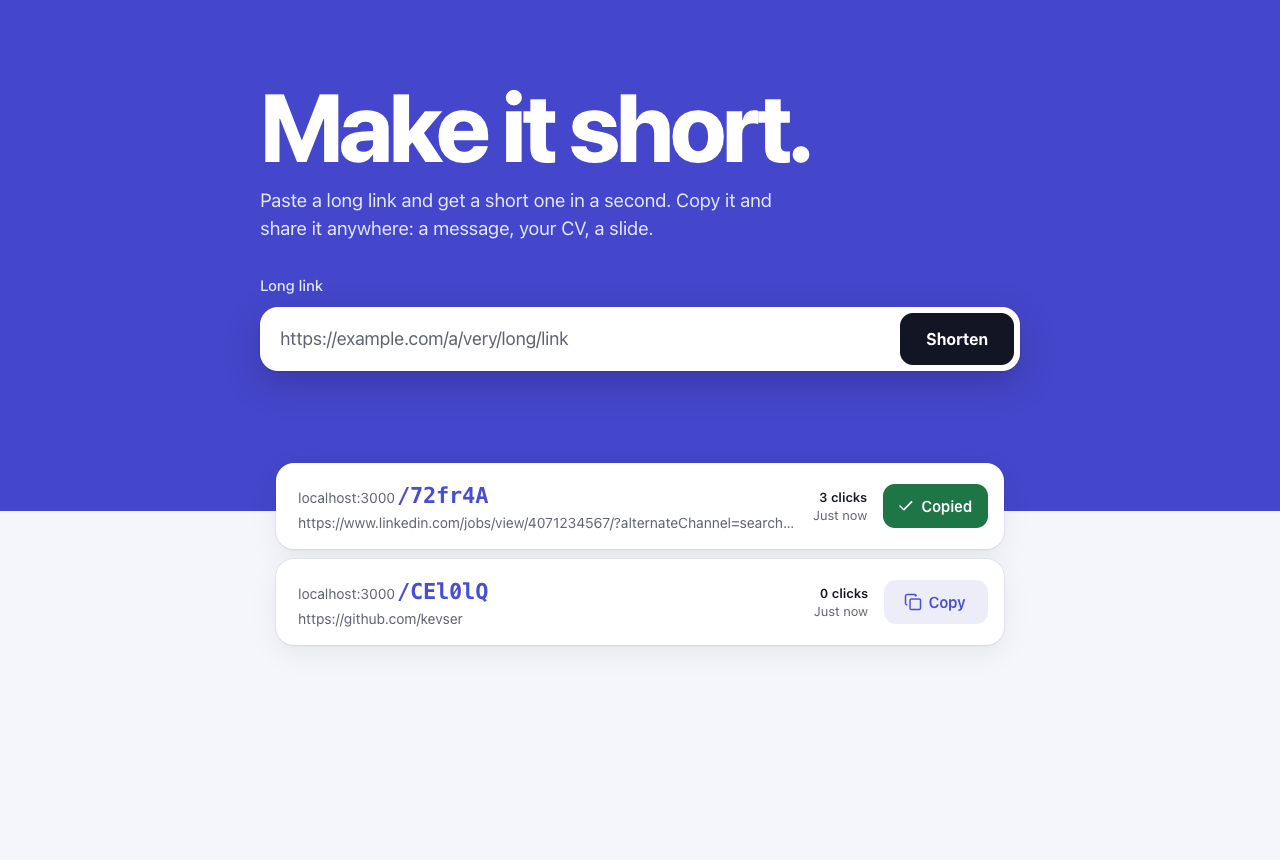
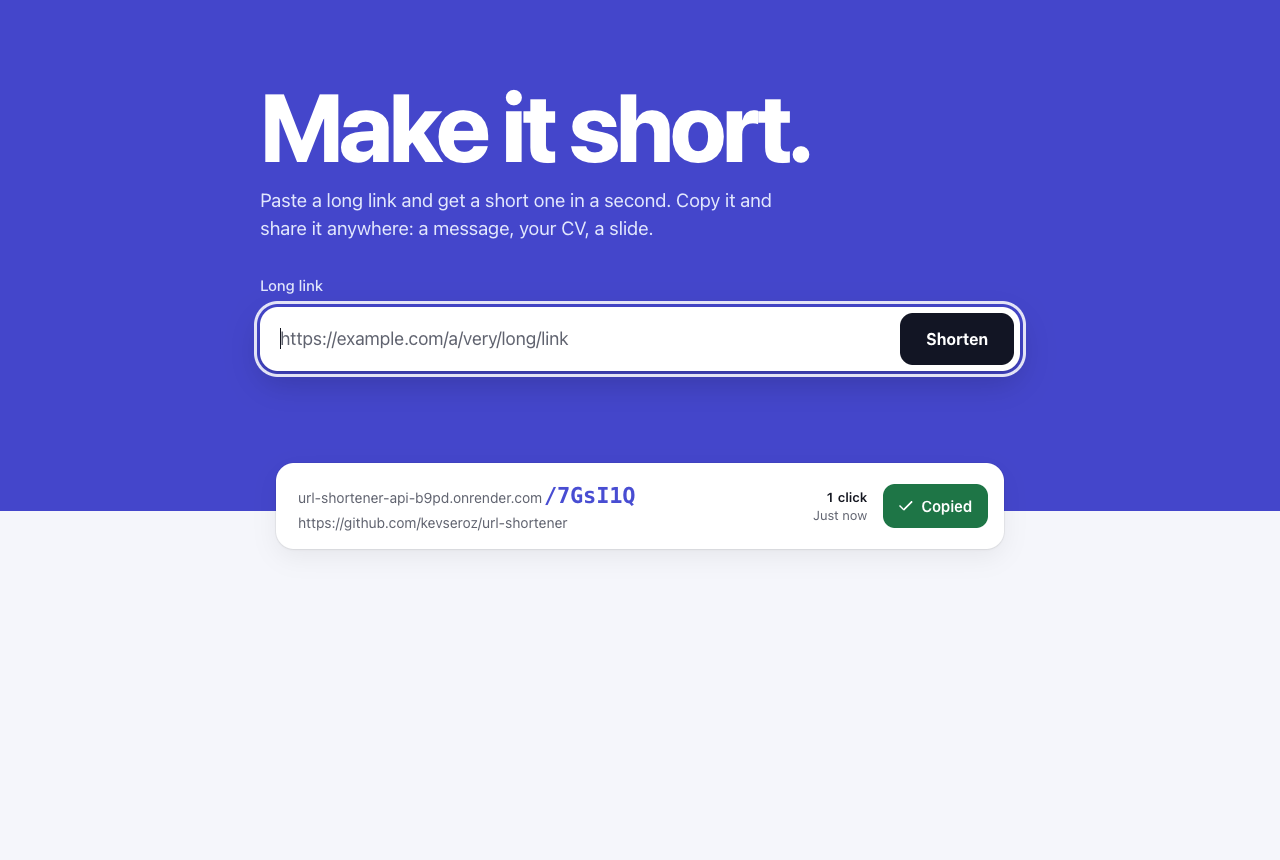
README: add the live link and a screenshot of the live site

diff --git a/README.md b/README.md
@@ -2,7 +2,9 @@
 
 Paste a long link, get a short one, and see how many times it was opened.
 
-**Live:** _coming soon_
+**Live:** https://url-shortener-eight-omega-44.vercel.app
+
+_The backend runs on Render's free plan and sleeps after 15 minutes without visitors, so the first link you shorten may take up to a minute._
 
 ![Screenshot](docs/screenshot.png)
 
